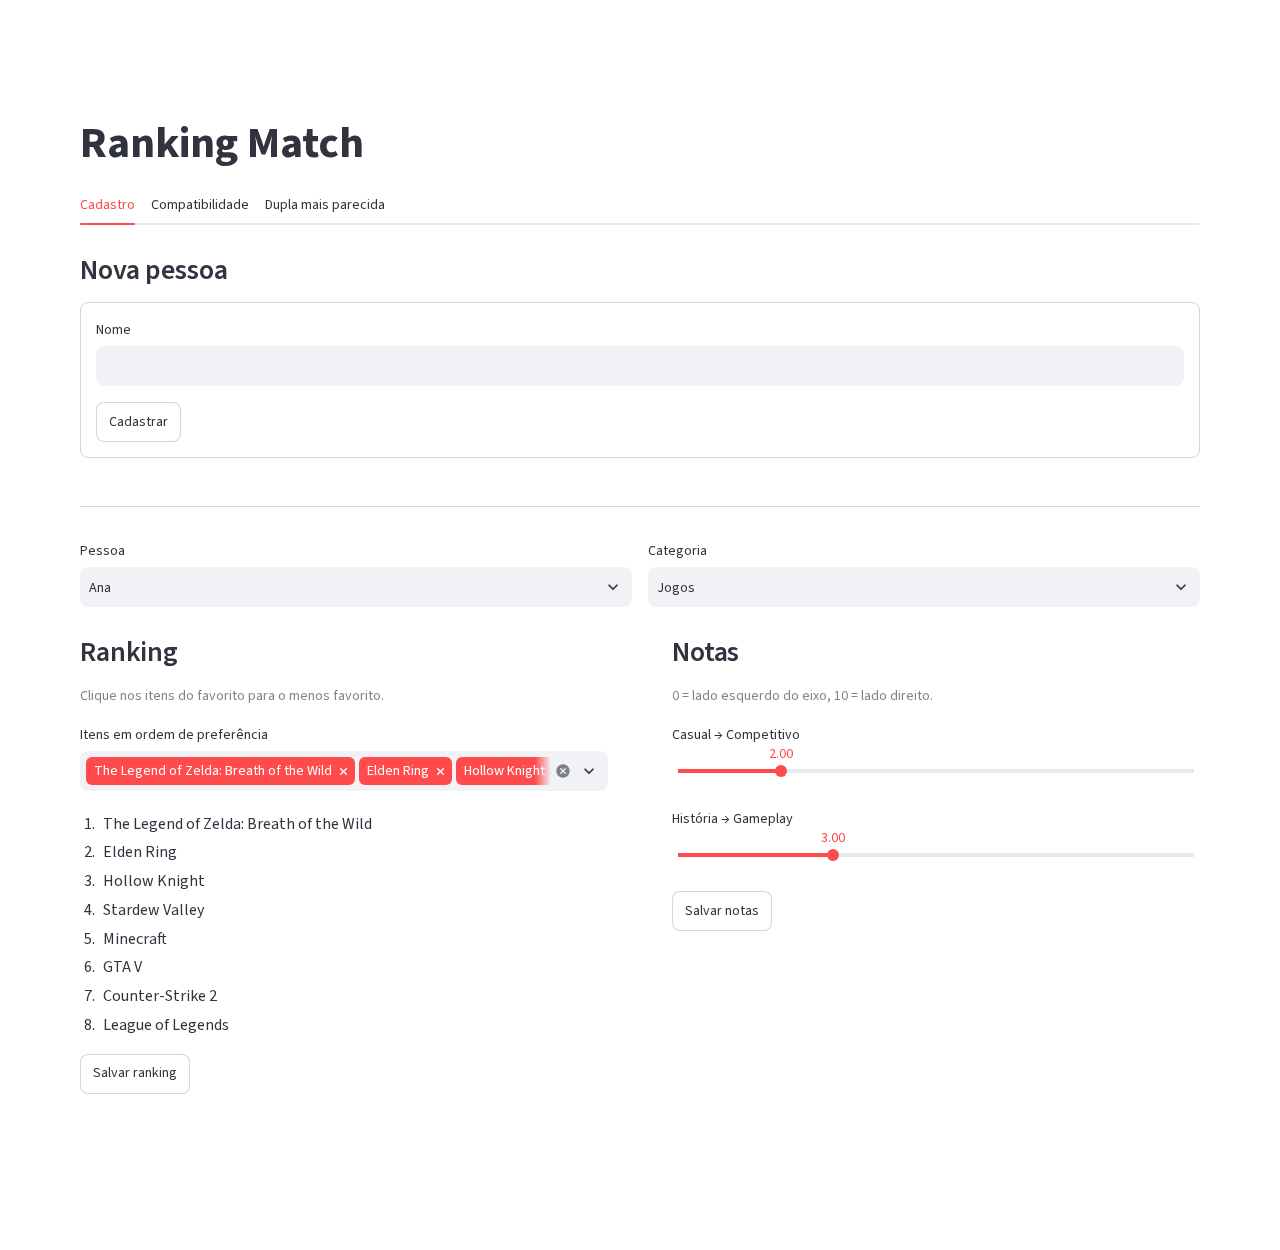
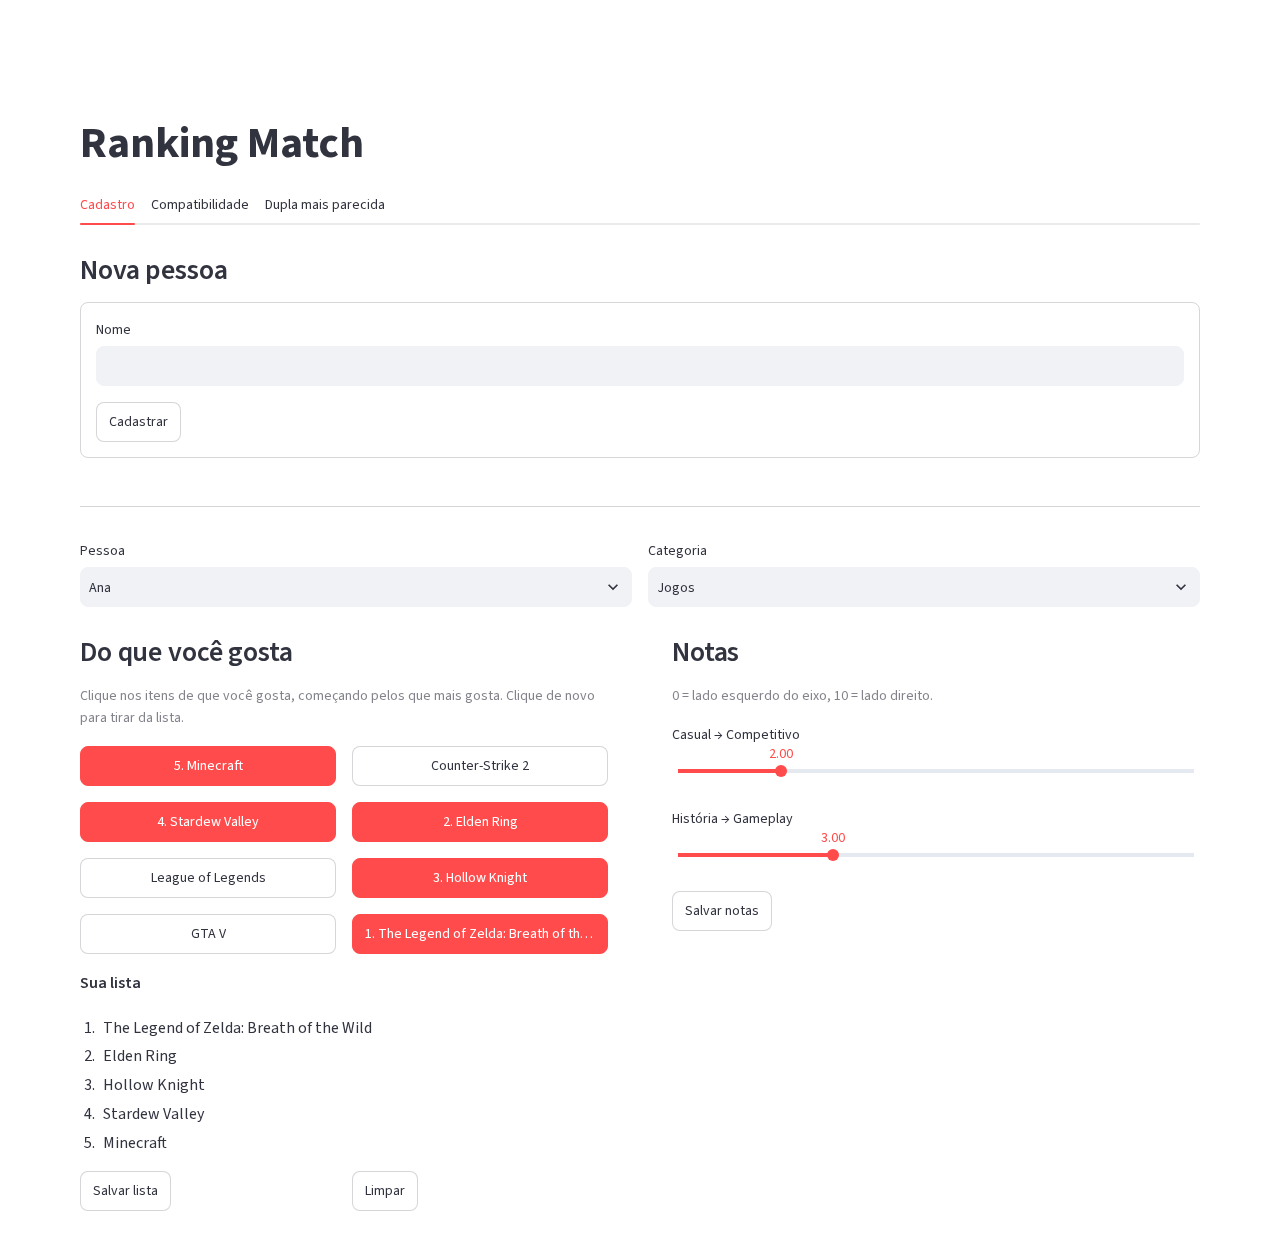
docs: README e screenshots com a nova escolha de itens

Changed region(s): [[0.0625, 0.4992, 0.5, 0.9672], [0.2812, 0.936, 0.3125, 0.9672], [0.2812, 0.5304, 0.3125, 0.5616]]

diff --git a/README.md b/README.md
@@ -13,21 +13,21 @@
 
 O **Ranking Match** descobre afinidades entre pessoas a partir dos gostos delas em três categorias: **Jogos**, **Músicas** e **Séries/Animes**. Cada pessoa informa duas coisas por categoria:
 
-- **Um ranking** dos 8 itens da categoria, do favorito ao menos favorito.
+- **Do que gosta**: dos 8 itens da categoria, a pessoa clica só nos de que gosta, começando pelos que mais gosta. A ordem dos cliques é a ordem de preferência.
 - **Um ponto (x, y)**, com notas de 0 a 10 em dois eixos que descrevem o gosto dela. Em Jogos, por exemplo, os eixos são *Casual → Competitivo* e *História → Gameplay*.
 
 Com esses dados o app tem duas abas de resultado, cada uma resolvida por um algoritmo de divisão e conquista:
 
-- **Compatibilidade**: o quanto os rankings de duas pessoas concordam, medido pela **contagem de inversões**. A aba mostra todas as pessoas da mais para a menos compatível e permite comparar duas lado a lado.
+- **Compatibilidade**: o quanto as listas de duas pessoas combinam: se gostam das mesmas coisas e na mesma ordem, medida com a **contagem de inversões**. A aba mostra todas as pessoas da mais para a menos compatível e permite comparar duas lado a lado.
 - **Dupla mais parecida**: as duas pessoas com gostos mais próximos na categoria, encontradas pelo **par de pontos mais próximo**. A aba mostra o gráfico das notas com a dupla destacada.
 
-A aba **Cadastro** é onde as pessoas são criadas e preenchem o ranking e as notas.
+A aba **Cadastro** é onde as pessoas são criadas e escolhem do que gostam e as notas.
 
 ### Algoritmos
 
 #### Contagem de inversões: aba Compatibilidade
 
-Os itens são percorridos na ordem do ranking da pessoa A, anotando a posição que a pessoa B deu a cada um. Cada **inversão** nessa sequência (um par `i < j` com `seq[i] > seq[j]`) é um par de itens em que as duas pessoas discordam sobre qual vem antes.
+Só os itens que as duas pessoas escolheram entram nesta etapa. Eles são percorridos na ordem da lista da pessoa A, anotando a posição que cada um tem na lista da pessoa B. Cada **inversão** nessa sequência (um par `i < j` com `seq[i] > seq[j]`) é um par de itens em que as duas pessoas discordam sobre qual vem antes.
 
 A contagem é feita com o *sort-and-count* (Kleinberg & Tardos, seção 5.3):
 
@@ -35,7 +35,18 @@ A contagem é feita com o *sort-and-count* (Kleinberg & Tardos, seção 5.3):
 2. **Conquistar:** cada metade é ordenada e tem suas inversões contadas recursivamente.
 3. **Combinar:** na intercalação das duas metades, sempre que um elemento da direita sai antes dos que ainda restam na esquerda, ele forma uma inversão com cada um deles. Todas são somadas de uma vez.
 
-Complexidade **O(n log n)**, contra O(n²) de comparar todos os pares. A compatibilidade é `100 × (1 − inversões / total de pares)`, com `total de pares = n(n − 1)/2`. Com 8 itens, rankings idênticos dão 100% (0 inversões) e rankings invertidos dão 0% (28 inversões).
+Complexidade **O(n log n)**, contra O(n²) de comparar todos os pares.
+
+A compatibilidade junta o quanto as duas gostam das mesmas coisas com o quanto concordam na ordem:
+
+```
+compatibilidade = 100 × (em comum / escolhidos) × (1 − inversões / pares)
+```
+
+- `em comum`: itens que as duas escolheram; `escolhidos`: itens que pelo menos uma escolheu.
+- `pares = c(c − 1)/2`, com `c` itens em comum. Com menos de 2 itens em comum não há par para discordar, e esse fator vale 1.
+
+Exemplo: Ana escolhe `[Minecraft, CS2, Stardew, Elden Ring]` e Bruno `[CS2, Minecraft, Stardew, LoL]`. Em comum há 3 itens de 5 escolhidos, e a única discordância é Minecraft × CS2 (1 inversão em 3 pares). Compatibilidade = `100 × 3/5 × (1 − 1/3) = 40%`. Duas listas iguais dão 100%, e listas sem nada em comum dão 0%.
 
 Implementação: [`algoritmos/inversoes.py`](algoritmos/inversoes.py).
 
@@ -60,11 +71,11 @@ Os dois algoritmos são testados contra uma força bruta O(n²) em 200 casos ale
 
 ## Screenshots
 
-**Cadastro**: a pessoa clica nos itens do favorito ao menos favorito e ajusta as notas nos dois eixos da categoria.
+**Cadastro**: todos os itens da categoria ficam visíveis; a pessoa clica nos de que gosta, que entram numerados na lista dela, e ajusta as notas nos dois eixos.
 
 ![Aba Cadastro](docs/screenshots/cadastro.png)
 
-**Compatibilidade**: as pessoas mais compatíveis com a selecionada e a comparação direta entre duas, com os rankings lado a lado.
+**Compatibilidade**: as pessoas mais compatíveis com a selecionada e a comparação direta entre duas, com as listas lado a lado e os itens em comum marcados.
 
 ![Aba Compatibilidade](docs/screenshots/compatibilidade.png)
 
@@ -118,8 +129,8 @@ O app abre no navegador em `http://localhost:8501`. Na primeira execução, o ba
 Roteiro sugerido:
 
 1. **Dupla mais parecida**: já funciona com os dados da seed. Escolha uma categoria para ver o gráfico e a dupla mais próxima.
-2. **Cadastro**: cadastre-se, escolha uma categoria, clique nos itens do favorito ao menos favorito e salve o ranking. Ajuste as notas nos dois eixos e salve também.
-3. **Compatibilidade**: a seed não tem rankings, então salve o ranking de pelo menos 2 pessoas na mesma categoria pelo Cadastro. Depois, veja quem é mais compatível com quem.
+2. **Cadastro**: cadastre-se, escolha uma categoria, clique nos itens de que gosta, começando pelos que mais gosta, e salve a lista. Ajuste as notas nos dois eixos e salve também.
+3. **Compatibilidade**: a seed não tem listas, então salve a lista de pelo menos 2 pessoas na mesma categoria pelo Cadastro. Depois, veja quem é mais compatível com quem.
 
 Para voltar o banco ao estado inicial, feche o app, apague o arquivo `banco/ranking_match.db` e rode de novo.
 
